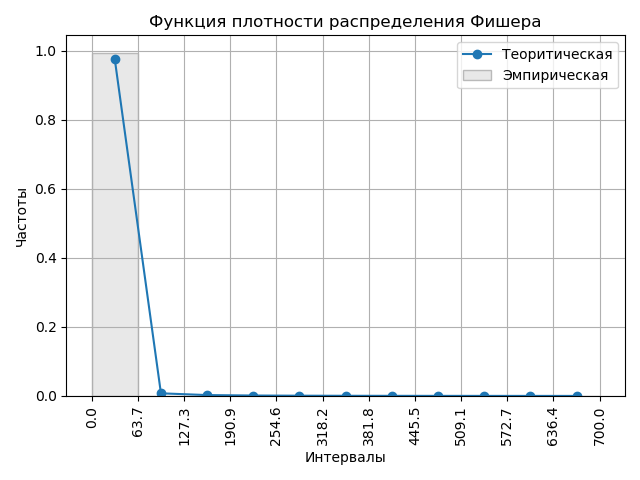
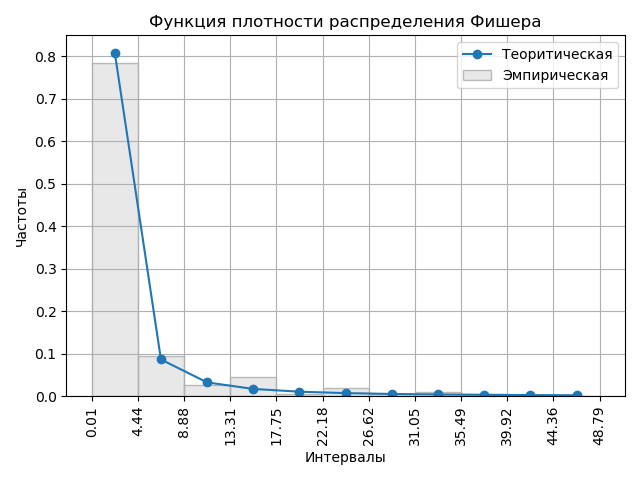
rgz - Fixed Rayleigh distribution. All tasks completed

diff --git a/RGZ/main3.py b/RGZ/main3.py
@@ -53,8 +53,9 @@ def main():
     DISTR_FILENAME = ["rayleigh", "norm"]
     EMPIRIC_DISTR  = [distr3.rayleigh_distribution, distr3.normal_distribution]
     THEOR_DISTR    = [distr3.rayleigh.cdf, distr3.norm.cdf]
-    ARGS_LIST      = [[sigm, correction_n], [correction_n]]
-    ARGS_LABEL     = [["sigm", "correction_n"], ["correction_n"]]
+    # Неиспользуемый параметр loc для распределения Рэлея
+    ARGS_LIST      = [[0, sigm, correction_n], [correction_n]]
+    ARGS_LABEL     = [["_", "sigm", "correction_n"], ["correction_n"]]
     for i in range(DISTR_COUNT):
         for j in range(len(n_list)):
             # Формирование последовательности
@@ -67,7 +68,7 @@ def main():
             # Тест критерия Крамера-Мизеса-Смирнов
             cms_S, cms_PSS, cms_passed = alg.cms_test(sequence, alpha, THEOR_DISTR[i], *ARGS_LIST[i][:-1])
             ff.write_tests_results(OUTPUT_PATH + ff.get_filename(DISTR_FILENAME[i], TESTS_RESULT, n_list[j]), precision, 
-                                   ARGS_LIST[i], ARGS_LABEL[i], alpha, sequence, intervals, hits, modeling_time,
+                                   ARGS_LIST[i][1:], ARGS_LABEL[i][1:], alpha, sequence, intervals, hits, modeling_time,
                                    chi2_r, chi2_S, chi2_PSS, chi2_passed, cms_S, cms_PSS, cms_passed)
             if histogram_run:
                 alg.make_histogram(OUTPUT_PATH + ff.get_filename(DISTR_FILENAME[i], HISTOGRAM, n_list[j]), 

diff --git a/RGZ/distribution3.py b/RGZ/distribution3.py
@@ -1,4 +1,4 @@
-from math import sqrt
+from math import sqrt, exp
 from random import uniform
 from scipy.stats import rayleigh, norm
 
@@ -20,5 +20,5 @@ def normal_distribution(n):
 
 
 # Распределения Рэлея (Основное распределение)
-def rayleigh_distribution(sigm, n):
+def rayleigh_distribution(_, sigm, n):
     return sigm * sqrt(normal_distribution(n)**2 + normal_distribution(n)**2)

diff --git a/RGZ/distribution1.py b/RGZ/distribution1.py
@@ -23,10 +23,6 @@ def normal_distribution(even=[True], eps=[0.0, 0.0]):
 
 # Распределение Хи-квадрат
 def chi2_distribution(k):
-    #result = sum(val**2 for sub in (muller_method() for _ in range(k // 2)) for val in sub)
-    #if k % 2 != 0:
-    #    result += muller_method()[0]
-    #return result
     return sum(normal_distribution()**2 for _ in range(k))
 
 
